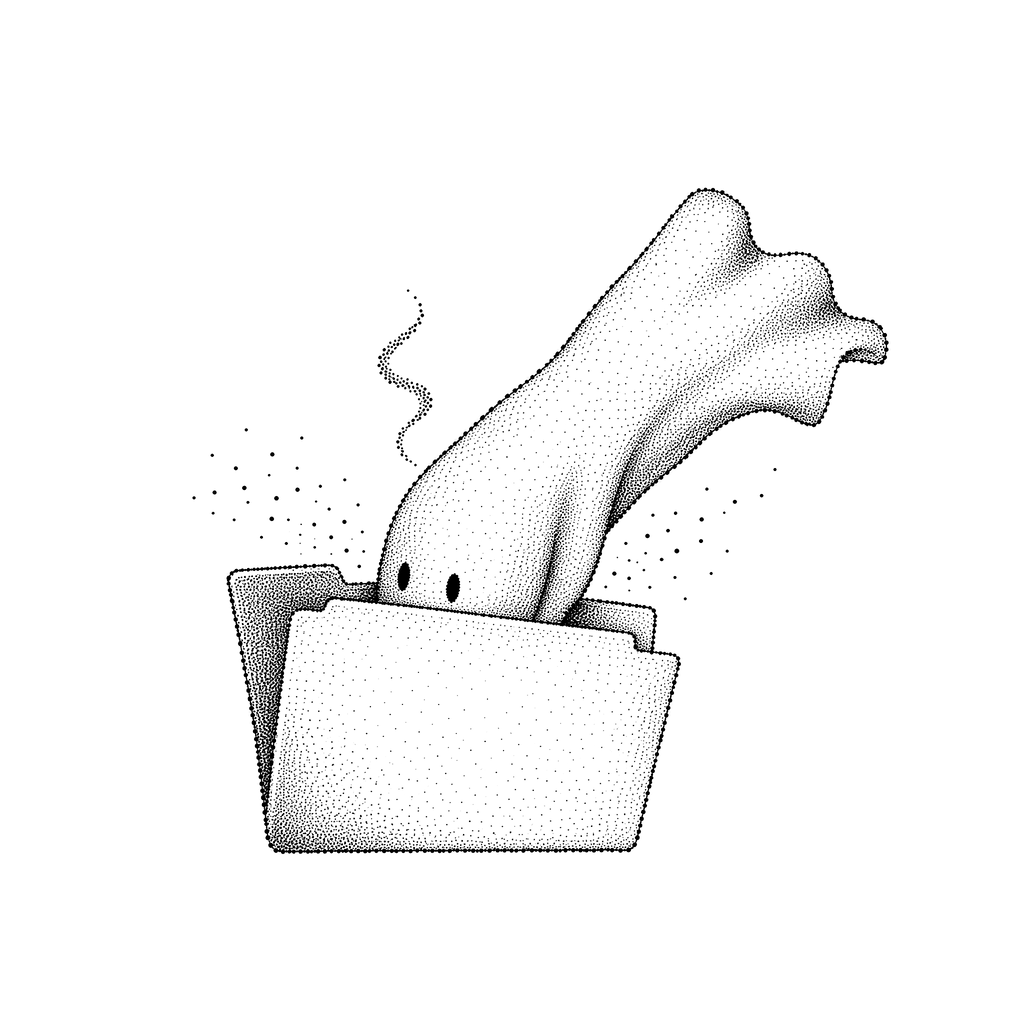
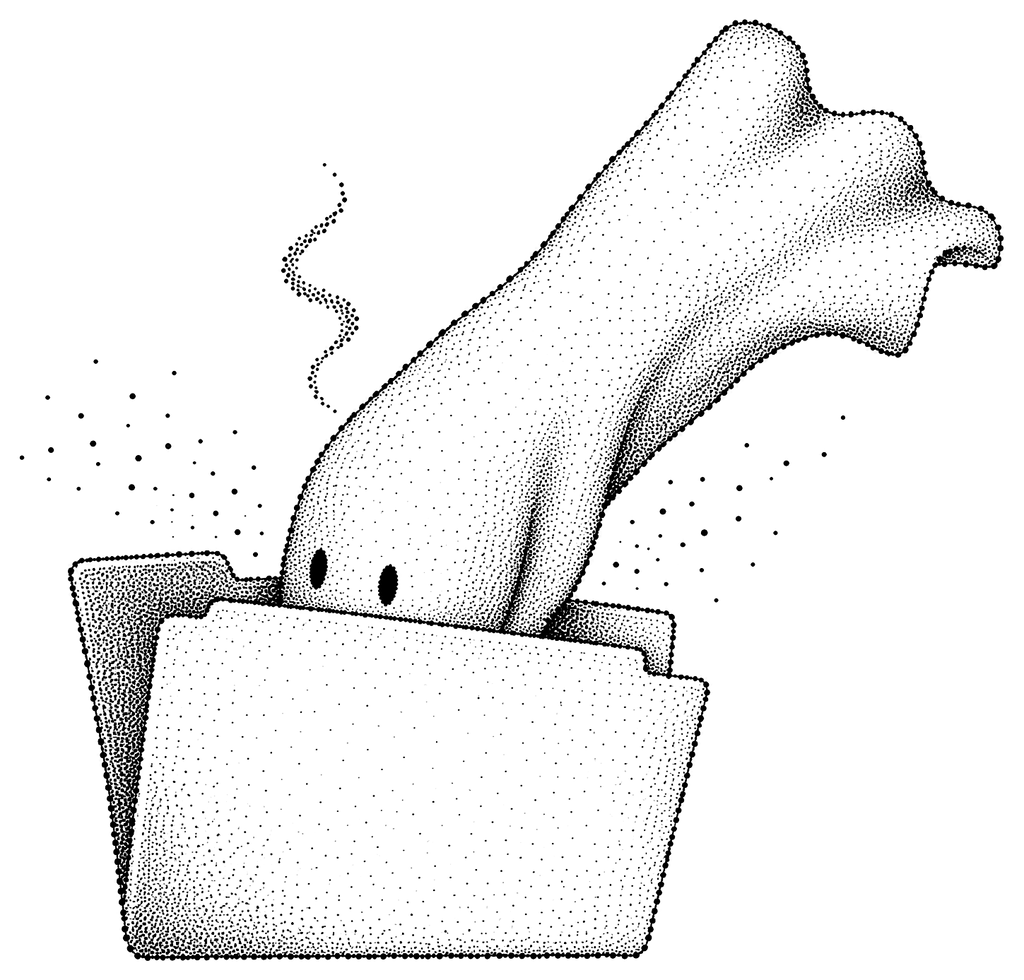
The ghosts cropped to their drawings, and a small one in the update card
Each picture is cut to its drawing and keeps its own shape, so the
height limits apply to the drawing, not a square round it. The update
card's ghost is 3rem tall, so the card is a notice again. The empty
home page's ghost is held to 45% of the height beside its words and
38% stacked over them, clear of the dock on a laptop and a phone.

diff --git a/src/app/art/Ghost.tsx b/src/app/art/Ghost.tsx
@@ -1,6 +1,6 @@
 import type { CSSProperties } from 'react';
 import styles from './Ghost.module.css';
-import { GHOSTS, type GhostScene } from './ghosts.ts';
+import { GHOST_RATIOS, GHOSTS, type GhostScene } from './ghosts.ts';
 /**
  * The ghost, Ghost.md's mascot, for the app's empty pages and quiet moments (docs/GHOSTS.md).
  *
@@ -15,10 +15,12 @@ import { GHOSTS, type GhostScene } from './ghosts.ts';
  */
 
 /**
- * `lead`, where the picture leads a page (the empty home page): the column's width, up to 60% of the window's height
+ * `lead`, where the picture leads a page (the empty home page): the column's width, up to 45% of the window's height
  * and 36rem. `small`, under or beside words: the column's width, up to 40% of the height and 28rem. `tiny`, inside a
- * card: 9rem. Matt asked for them bigger twice ("at least 4x more space", then "fill 100% width or available height
- * without going too big"), which is why the pictures are 1024px masks. They sit still; they used to drift.
+ * card: 3rem tall. Matt asked for them bigger twice ("at least 4x more space", then "fill 100% width or available
+ * height without going too big"), which is why the pictures are 1024px masks, and for the card's to be smaller ("it
+ * makes the update banner huge"). They sit still; they used to drift. Each picture is cropped to its drawing and
+ * keeps its own shape (`GHOST_RATIOS`), so the limits on height are limits on the drawing, not on a square round it.
  */
 export type GhostSize = 'lead' | 'small' | 'tiny';
 
@@ -34,6 +36,6 @@ export function Ghost({
   align?: 'start' | 'center';
   className?: string;
 }) {
-  const style = { '--ghost-image': `url("${GHOSTS[scene]}")` } as CSSProperties;
+  const style = { '--ghost-image': `url("${GHOSTS[scene]}")`, '--ghost-ratio': GHOST_RATIOS[scene] } as CSSProperties;
   return <span className={`${styles.ghost}${className ? ` ${className}` : ''}`} data-size={size} data-align={align} data-scene={scene} style={style} aria-hidden="true" />;
 }

diff --git a/src/app/art/Ghost.module.css b/src/app/art/Ghost.module.css
@@ -5,13 +5,13 @@
 .ghost {
   display: block;
   flex: none;
-  aspect-ratio: 1;
+  aspect-ratio: var(--ghost-ratio, 1);
   /*
    * As big as the room allows (Matt: "they can be larger even still, try to fill 100% width or available height
    * without going too big"): the column's whole width, but never more than part of the window's height, so it fits
    * on the screen without scrolling, and never more than a ceiling, so a large monitor does not get a poster.
    */
-  inline-size: min(100%, 40dvh, 28rem);
+  inline-size: min(100%, 28rem, calc(40dvh * var(--ghost-ratio, 1)));
   color: var(--app-ink-3, var(--glacier-text-muted));
   background-color: currentColor;
   -webkit-mask-image: var(--ghost-image);
@@ -26,13 +26,17 @@
 }
 
 .ghost[data-size='lead'] {
-  inline-size: min(100%, 60dvh, 36rem);
+  /* 45% of the height, not more: the page it leads has a header, a date and a notice above it and a dock below, and
+     at 60% a cropped ghost ran behind the dock's buttons on a laptop screen. */
+  inline-size: min(100%, 36rem, calc(45dvh * var(--ghost-ratio, 1)));
 }
 
 .ghost[data-align='center'] {
   margin-inline: auto;
 }
 
+/* In a card: the height of a couple of lines of its words, so the card stays the size of a notice. */
 .ghost[data-size='tiny'] {
-  inline-size: 9rem;
+  inline-size: auto;
+  block-size: 3rem;
 }

diff --git a/src/app/home/HomeScreen.module.css b/src/app/home/HomeScreen.module.css
@@ -117,6 +117,15 @@
 }
 
 /*
+ * Stacked over its words, as on a phone, the ghost leaves them room above the dock: measured at 375x812, a ghost held
+ * to 45% of the height put the second line of words 12px under the dock's buttons. Beside its words (below) it may
+ * have the full 45% again.
+ */
+.empty > .emptyArt[data-size] {
+  inline-size: min(100%, 36rem, calc(38dvh * var(--ghost-ratio, 1)));
+}
+
+/*
  * On a page wide enough, the ghost and its words sit side by side. At the ghost's full size (Matt: "the graphics are
  * too small they should take up at least 4x more space") a stack put "A blank page." at the foot of a laptop screen,
  * under the foot's smoke; beside the ghost the words are at its middle, where they are read.
@@ -132,9 +141,10 @@
     align-content: center;
   }
 
-  .emptyArt {
+  .empty > .emptyArt[data-size] {
     grid-row: 1 / span 2;
     margin-block-end: 0;
+    inline-size: min(100%, 36rem, calc(45dvh * var(--ghost-ratio, 1)));
   }
 
   .emptyLead {

diff --git a/src/app/art/Ghost.test.tsx b/src/app/art/Ghost.test.tsx
@@ -2,7 +2,7 @@ import { afterEach, describe, expect, it } from 'vitest';
 import { act } from 'react';
 import { createRoot, type Root } from 'react-dom/client';
 import { Ghost } from './Ghost.tsx';
-import { GHOSTS, type GhostScene } from './ghosts.ts';
+import { GHOST_RATIOS, GHOSTS, type GhostScene } from './ghosts.ts';
 
 let root: Root | null = null;
 let host: HTMLDivElement | null = null;
@@ -33,6 +33,8 @@ describe('the ghost', () => {
     expect(ghost.getAttribute('data-size')).toBe('lead');
     expect(ghost.getAttribute('data-align')).toBe('center');
     expect(ghost.style.getPropertyValue('--ghost-image')).toBe(`url("${GHOSTS['no-notes']}")`);
+    // Its own shape, cropped to the drawing: no picture is a square with room round it any more.
+    expect(Number(ghost.style.getPropertyValue('--ghost-ratio'))).toBeCloseTo(GHOST_RATIOS['no-notes']);
   });
 
   it('is small and at the start unless told otherwise, and keeps a class it is given', () => {

diff --git a/src/app/art/ghosts.ts b/src/app/art/ghosts.ts
@@ -47,3 +47,24 @@ export const GHOSTS: Record<GhostScene, string> = {
   welcome,
   update,
 };
+
+/**
+ * Each picture's width over its height. The pictures are cropped to the drawing (Matt: "trim all the white space from
+ * around the images"), so none of them is square any more, and the box each is drawn in takes its shape from this.
+ */
+export const GHOST_RATIOS: Record<GhostScene, number> = {
+  'no-notes': 811 / 1024,
+  'empty-workspace': 1024 / 980,
+  'new-note': 1024 / 949,
+  'search-nothing': 594 / 1024,
+  'trash-empty': 295 / 1024,
+  'archive-empty': 863 / 1024,
+  listening: 1005 / 1024,
+  working: 728 / 1024,
+  'empty-canvas': 1024 / 697,
+  'all-ticked': 649 / 1024,
+  'signed-out': 1024 / 908,
+  'went-wrong': 874 / 1024,
+  welcome: 709 / 1024,
+  update: 776 / 1024,
+};

diff --git a/src/app/canvas/CanvasView.module.css b/src/app/canvas/CanvasView.module.css
@@ -596,7 +596,7 @@
 
 /* Sized by the screen: in a centred grid a width of 100% has nothing definite to be 100% of. */
 .emptyCanvasArt {
-  inline-size: min(70vw, 40dvh, 28rem);
+  inline-size: min(70vw, 28rem, calc(40dvh * var(--ghost-ratio, 1)));
 }
 
 .emptyCanvasWords {

diff --git a/docs/DESIGN.md b/docs/DESIGN.md
@@ -3445,3 +3445,21 @@ available height without going too big."
 - **Two places needed a definite size to be a share of.** The wide home page's side-by-side grid had an auto column
   sized by the ghost, and a width of 100% of that is circular; it is now three parts to the words' two. The empty
   canvas centres its ghost in a grid sized by its content, so its ghost is sized by the screen instead.
+
+## 68. The ghosts cropped to their drawings, and a small one in the update card (2026-09-22)
+
+Matt: "Trim all the white space from around the images we recently added and make the one on the update banner
+smaller as right now it makes the update banner huge."
+
+- **Cropped.** Each picture was a square with the drawing in its middle. Now each is cut to its drawing with a 2%
+  edge so no dot is lost, remade from the original at 1024px on its long side (2.6 MB for all fourteen). None is
+  square any more - from 0.29 wide per unit of height (the trash) to 1.47 (the empty canvas) - so each ghost's box
+  takes its picture's shape (`GHOST_RATIOS` in art/ghosts.ts, `--ghost-ratio`), and the limits on height are limits on
+  the drawing: a ghost is its column's width, up to 28rem, and up to 40% of the window's height.
+- **The update card's ghost is 3rem tall**, about two lines of the card's words: 36 by 48px, and the card 84px tall,
+  measured with the real card mounted in the browser. At 9rem wide it had made the card as tall as the ghost.
+- **The home page, measured after cropping.** A cropped ghost fills its box, so the old limit put the empty home page's
+  ghost behind the dock's buttons on a laptop (its foot at 777px, the dock at 738 in an 800px window), and on a phone
+  put the second line of words under the dock. Leading a page it is now up to 45% of the height beside its words and
+  38% stacked over them: 360px tall ending at 657 on a laptop, 309px ending at 590 on a phone, the words clear of the
+  dock on both.
